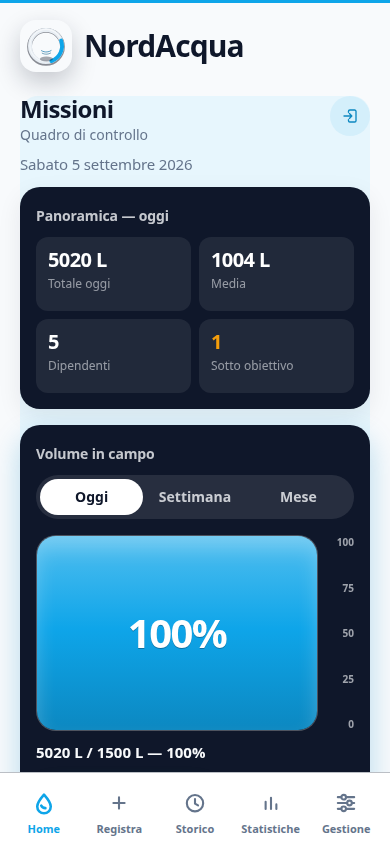
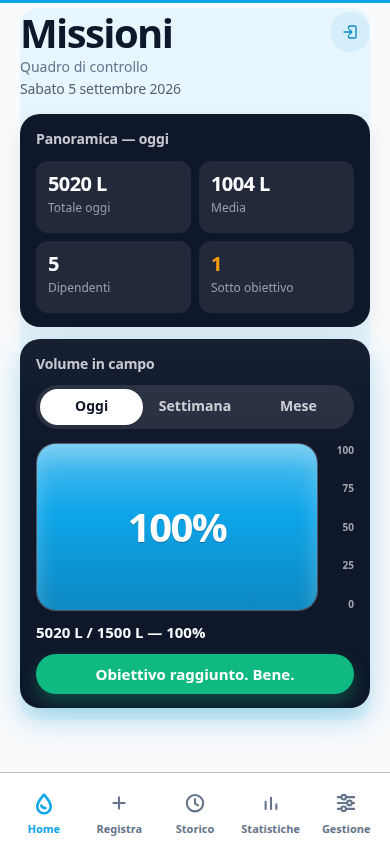
feat: fit official water tokens on campo Home frame
Hide the brand header on campo Home so the greeting, two inverse cards, tank, and success #10B981 banner fit a 390x844 shot. Recapture apple-craft-v4 proofs.

diff --git a/src/lib/ai/compose-product.ts b/src/lib/ai/compose-product.ts
@@ -1130,35 +1130,38 @@ function productChromeCss(): string {
 html[data-grammar="ops-desk"] .table-wrap thead th{background:color-mix(in srgb,var(--accent) 10%,var(--surface));color:var(--accent);font-weight:650}
 html[data-fenix-campo]{--navy:var(--inverse);--water:var(--brand);--ok-loud:var(--ok)}
 html[data-fenix-campo],html[data-fenix-campo] body{background:var(--surface-2);color:var(--on-surface)}
-html[data-fenix-campo] header{position:sticky;top:0;z-index:6;background:color-mix(in srgb,var(--surface) 78%,transparent);-webkit-backdrop-filter:saturate(1.6) blur(16px);backdrop-filter:saturate(1.6) blur(16px)}
+html[data-fenix-campo] header{position:sticky;top:0;z-index:6;padding:12px 16px 10px;background:color-mix(in srgb,var(--surface) 78%,transparent);-webkit-backdrop-filter:saturate(1.6) blur(16px);backdrop-filter:saturate(1.6) blur(16px)}
+html[data-fenix-campo]:has(nav.tabs button:first-child.on) header{display:none}
 html[data-fenix-campo] nav.tabs{background:color-mix(in srgb,var(--surface) 82%,transparent);-webkit-backdrop-filter:saturate(1.8) blur(18px);backdrop-filter:saturate(1.8) blur(18px)}
 html[data-fenix-campo] .home-hero{background:transparent;border:0;box-shadow:none;padding:0}
 html[data-fenix-campo] .home-aside,html[data-fenix-campo] .home-recent{display:none}
 html[data-fenix-campo] .home-count,html[data-fenix-campo] .home-hero>.btn{position:absolute;width:1px;height:1px;overflow:hidden;clip:rect(0 0 0 0)}
-html[data-fenix-campo] .fx-hello-row{display:flex;align-items:flex-start;justify-content:space-between;gap:12px;margin:0 0 8px}
-html[data-fenix-campo] .fx-hello{margin:0;font:750 var(--fx-t-24)/1.1 var(--display),system-ui,sans-serif;letter-spacing:-.03em;color:var(--on-surface)}
+html[data-fenix-campo] #fk-saved,html[data-fenix-campo] [data-fenix-kit-list]{display:none}
+html[data-fenix-campo] .fx-hello-row{display:flex;align-items:flex-start;justify-content:space-between;gap:12px;margin:4px 0 4px}
+html[data-fenix-campo] .fx-hello{margin:0;font:750 var(--fx-t-display)/1.05 var(--display),system-ui,sans-serif;letter-spacing:-.04em;color:var(--on-surface)}
 html[data-fenix-campo] .fx-role{margin:4px 0 0;font:500 var(--fx-t-14)/1.3 var(--body),system-ui,sans-serif;color:var(--muted)}
+html[data-fenix-campo] .fx-date{margin:0 0 16px;font:500 var(--fx-t-14)/1.3 var(--body),system-ui,sans-serif;color:color-mix(in srgb,var(--on-surface) 48%,#94a3b8)}
 html[data-fenix-campo] .fx-exit{width:40px;height:40px;border:0;border-radius:50%;background:var(--brand-soft);color:var(--brand-2);display:grid;place-items:center;flex:0 0 40px}
 html[data-fenix-campo] .fx-exit svg{width:18px;height:18px}
-html[data-fenix-campo] .fx-inverse{margin:0 0 16px;padding:20px 16px 16px;border-radius:var(--fx-r3);background:var(--inverse);color:#f8fafc;box-shadow:var(--shadow-card)}
-html[data-fenix-campo] .fx-hero{box-shadow:var(--shadow-float)}
+html[data-fenix-campo] .fx-inverse{margin:0 0 12px;padding:16px 16px 14px;border-radius:var(--fx-r3);background:var(--inverse);color:#f8fafc;box-shadow:var(--shadow-card)}
+html[data-fenix-campo] .fx-hero{box-shadow:var(--shadow-float);background:linear-gradient(180deg,color-mix(in srgb,#1e293b 52%,var(--inverse)) 0%,var(--inverse) 32%)}
 html[data-fenix-campo] .fx-shell-kicker{margin:0 0 12px;font:650 var(--fx-t-14)/1.3 var(--body),system-ui,sans-serif;letter-spacing:-.01em;color:color-mix(in srgb,#f8fafc 78%,transparent)}
 html[data-fenix-campo] .fx-inverse .fx-board,html[data-fenix-campo] .fx-inverse .fx-tank{background:transparent;color:inherit;margin:0;padding:0;border-radius:0;box-shadow:none}
 html[data-fenix-campo] .fx-inverse .fx-board{display:grid;grid-template-columns:1fr 1fr;gap:8px}
-html[data-fenix-campo] .fx-inverse .fx-cell{padding:12px;border-radius:var(--fx-r2);min-height:74px;background:var(--tile);border:0}
+html[data-fenix-campo] .fx-inverse .fx-cell{padding:12px;border-radius:var(--fx-r2);min-height:72px;background:var(--tile);border:0}
 html[data-fenix-campo] .fx-inverse .fx-cell b{color:#fff;font-size:var(--fx-t-20)}
 html[data-fenix-campo] .fx-inverse .fx-cell span{color:color-mix(in srgb,#f8fafc 70%,transparent)}
 html[data-fenix-campo] .fx-inverse .fx-cell[data-warn] b{color:var(--warn)}
-html[data-fenix-campo] .fx-toggle{display:flex;margin:0 0 16px;padding:4px;border-radius:var(--fx-pill);background:rgba(255,255,255,.1);border:0;overflow:hidden}
+html[data-fenix-campo] .fx-toggle{display:flex;margin:0 0 14px;padding:4px;border-radius:var(--fx-pill);background:rgba(255,255,255,.1);border:0;overflow:hidden}
 html[data-fenix-campo] .fx-toggle button{flex:1;border:0;background:transparent;color:color-mix(in srgb,#f8fafc 78%,transparent);min-height:36px;border-radius:var(--fx-pill);font:650 var(--fx-t-14)/1.2 var(--body),system-ui,sans-serif}
 html[data-fenix-campo] .fx-toggle button.on{background:#fff;color:var(--inverse)}
 html[data-fenix-campo] .fx-tank-frame{display:grid;grid-template-columns:minmax(0,1fr) 28px;gap:8px;align-items:stretch}
-html[data-fenix-campo] .fx-tank-well{height:196px;border-radius:var(--fx-r3);overflow:hidden;background:rgba(2,8,20,.35);border:1.5px solid color-mix(in srgb,#fff 28%,transparent);box-shadow:inset 0 1px 0 color-mix(in srgb,#fff 22%,transparent)}
+html[data-fenix-campo] .fx-tank-well{height:168px;border-radius:var(--fx-r3);overflow:hidden;background:rgba(2,8,20,.38);border:1.5px solid color-mix(in srgb,#fff 30%,transparent);box-shadow:inset 0 1px 0 color-mix(in srgb,#fff 26%,transparent),inset 0 -10px 18px rgba(2,8,20,.18)}
 html[data-fenix-campo] .fx-tank-grid{position:absolute;inset:0;background:repeating-linear-gradient(to bottom,transparent 0 24%,color-mix(in srgb,#fff 16%,transparent) 24% calc(24% + 1px));pointer-events:none}
-html[data-fenix-campo] .fx-tank-well i{background:linear-gradient(180deg,var(--brand-3) 0%,var(--brand) 48%,var(--brand-2) 100%);box-shadow:inset 0 12px 20px color-mix(in srgb,#fff 24%,transparent)}
+html[data-fenix-campo] .fx-tank-well i{background:linear-gradient(180deg,var(--brand-3) 0%,var(--brand) 42%,var(--brand-2) 100%);box-shadow:inset 0 14px 22px color-mix(in srgb,#fff 28%,transparent),0 -8px 16px color-mix(in srgb,var(--brand) 35%,transparent)}
 html[data-fenix-campo] .fx-tank-well b{color:#fff;font-size:var(--fx-t-display);text-shadow:0 1px 0 rgba(15,23,42,.35)}
 html[data-fenix-campo] .fx-axis{list-style:none;margin:0;padding:2px 0;display:flex;flex-direction:column;justify-content:space-between;font:650 10px/1 var(--body),system-ui,sans-serif;color:color-mix(in srgb,#f8fafc 62%,transparent);text-align:right}
-html[data-fenix-campo] .fx-ok{margin:14px auto 0;background:var(--ok);color:#fff;box-shadow:0 8px 18px color-mix(in srgb,var(--ok) 28%,transparent)}
+html[data-fenix-campo] .fx-ok{display:flex;margin:12px 0 0;width:100%;background:#10B981;color:#fff;border-radius:var(--fx-pill);min-height:40px;box-shadow:0 8px 18px color-mix(in srgb,#10B981 32%,transparent)}
 html[data-fenix-campo] .fx-pills{position:sticky;top:0;z-index:3;padding:2px 0;background:color-mix(in srgb,var(--surface-2) 88%,transparent)}
 html[data-fenix-campo] .fx-pill,html[data-fenix-campo] .fx-filter{border-width:1.5px;border-color:var(--border,var(--line));background:var(--surface);color:var(--on-surface)}
 html[data-fenix-campo] .fx-pill.on,html[data-fenix-campo] .fx-filter.on{background:var(--brand);color:#fff;border-color:var(--brand)}
@@ -1808,7 +1811,7 @@ function fxTankMarkup(n){
   html+='<div class="fx-tank-frame"><div class="fx-tank-well"><span class="fx-tank-grid" aria-hidden="true"></span><i style="height:'+pct+'%"></i><b>'+pct+"%</b></div>";
   html+='<ol class="fx-axis" aria-hidden="true"><li>100</li><li>75</li><li>50</li><li>25</li><li>0</li></ol></div>';
   html+="<p>"+(total?fmtLiters(total)+" / "+fmtLiters(goal):n+" / "+n)+(campoProduct?" — "+pct+"%":" · obiettivo")+"</p>";
-  if(pct>=100 && n) html+='<p class="fx-ok">'+(campoProduct?"Obiettivo raggiunto":"Obiettivo raggiunto")+"</p>";
+  if(pct>=100 && n) html+='<p class="fx-ok">'+(campoProduct?"Obiettivo raggiunto. Bene.":"Obiettivo raggiunto")+"</p>";
   return html+"</div>";
 }
 function renderPocketHome(){

diff --git a/src/lib/projects/color-scheme.ts b/src/lib/projects/color-scheme.ts
@@ -672,6 +672,7 @@ export function fenixRuntimeScript(projectId: string, kind?: string) {
     if (window.__fenixCrud) return true;
     if (document.querySelector("table thead") && document.querySelector("table tbody")) return true;
     if (document.querySelector("[data-fenix-rail], [data-fenix-week], article.slot, [data-agenda-form]")) return true;
+    if (document.documentElement.hasAttribute("data-fenix-campo")) return true;
     if (document.querySelector("#root article[data-id], #root .state-empty, [data-state=empty]")) return true;
     if (document.querySelector('main #list, main #lista, main #elenco, [data-panel="list"] ul, [data-panel="list"] ol, #view-list ul, #view-list ol')) return true;
     return false;

diff --git a/src/lib/ai/compose-product.test.ts b/src/lib/ai/compose-product.test.ts
@@ -829,6 +829,9 @@ describe("graphic pipeline prompt→plan→generate→visual→QA", () => {
     assert.match(product.html, /fx-tank/);
     assert.match(product.html, /fx-inverse/);
     assert.match(product.html, /fx-toggle/);
+    assert.match(product.html, /Obiettivo raggiunto\. Bene\./);
+    assert.match(product.html, /:has\(nav\.tabs button:first-child\.on\) header/);
+    assert.match(product.html, /#10B981/);
     assert.match(product.html, /fx-splash/);
     assert.match(product.html, /data-fenix-premium-mark/);
     assert.match(product.html, /Cerca per nome/);

diff --git a/src/lib/projects/native-app-style.ts b/src/lib/projects/native-app-style.ts
@@ -80,6 +80,7 @@ html[data-fenix-campo] .app-mark{width:52px;height:52px;flex:0 0 52px;border:0;b
 html[data-fenix-campo] .app-mark svg{width:52px;height:52px}
 html[data-fenix-campo] nav.tabs{grid-template-columns:repeat(5,minmax(0,1fr))}
 html[data-fenix-campo] nav.tabs button{font-size:11px;padding:6px 2px}
+html[data-fenix-campo] header{padding:12px 16px 10px}
 html[data-fenix-campo] header .place{display:none}
 </style>\n`;
 

diff --git a/docs/checkpoints/2026-09-05/apple-craft-v4/APPLE-CRAFT-V4-2026-09-05.md b/docs/checkpoints/2026-09-05/apple-craft-v4/APPLE-CRAFT-V4-2026-09-05.md
@@ -4,8 +4,6 @@ Fourth visual raise on `cursor/apple-like-visual-craft-b7e4` (PR #2). Still **no
 
 Andrea exported the real AcquaGt Expo/RN theme. We distilled **reusable craft slots** into Fenix. We did **not** copy Firebase, business logic, or copyrighted bitmaps. NordAcqua proofs are the same product family, not a pixel-identical AcquaGt reskin for every Fenix app.
 
-`docs/checkpoints/2026-09-05/apple-craft-v4/`
-
 - `01-home.png` — surfaceSecondary page, greeting-first Home (no Ciao), two `surfaceInverse` cards, tile overlays, white active tank chip, electric fill, success `#10B981` in the 390×844 frame
 - `02-gestione.png` — admin metric/list chrome, sticky pills, official border/success
 - `03-storico.png` — card-row shadow tier, brand name, status chips
